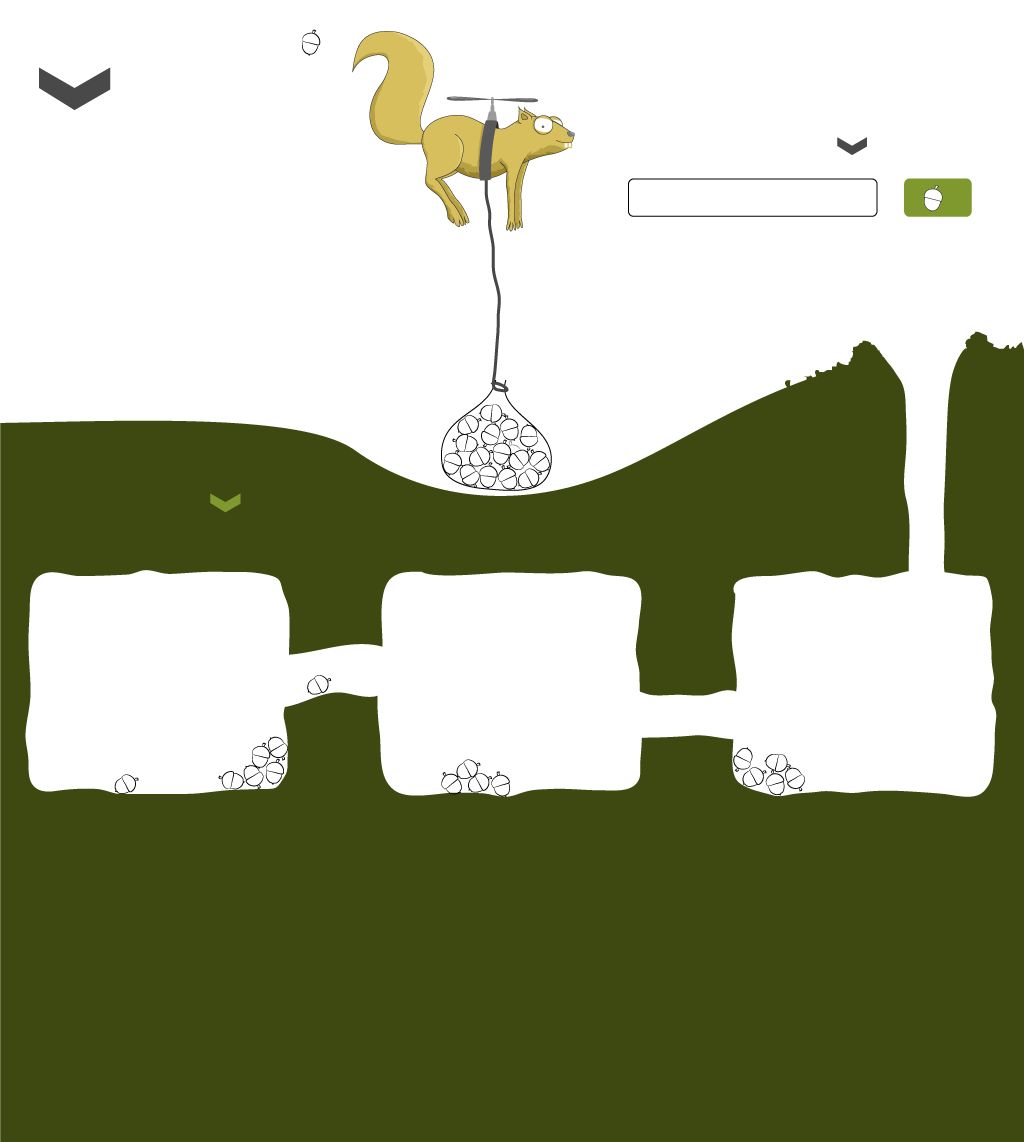
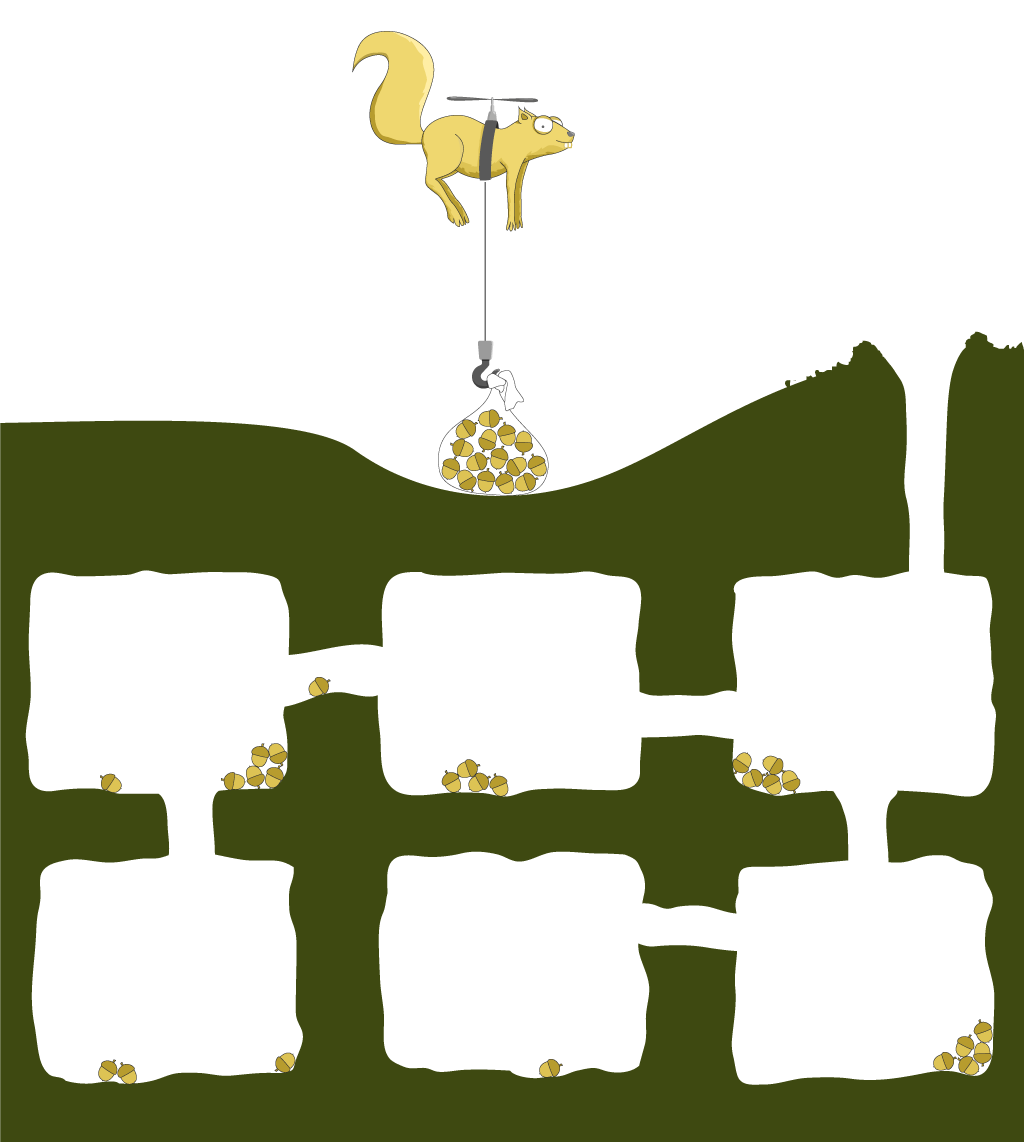
Front page styling

diff --git a/static/main.css b/static/main.css
@@ -25,11 +25,6 @@ html, body {
     padding: 0;
 }
 
-#home {
-    height: 100%;
-    margin: 0 50px 0 50px;
-}
-
 #wrapper {
     min-height: 100%;
     height: auto !important;
@@ -56,7 +51,65 @@ body.index #home {
 }
 
 body.index #header {
-    position: fixed;
+    display: none;
+}
+
+/* 
+ darker: rgb(166, 178, 177)
+ */
+
+body.index #home {
+    /*background: -webkit-gradient(linear, left bottom, left top, color-stop(0, rgb(166, 178, 177)), color-stop(1, rgb(220, 239, 238)));
+*/
+}
+
+body.index #page_background {
+    position: absolute;
+    top: 0;
+    bottom: 0;
+    right: 0;
+    left: 0;
+    z-index: -1;
+}
+
+body.index #page_background table {
+    border-spacing: 0;
+    width: 100%;
+    height: 100%;
+}
+
+body.index #page_background td {
+    width: 50%;
+    margin: 0;
+    padding: 0;
+}
+
+body.index #page_background .left_top {
+    background: rgb(220, 238, 238);
+    height: 423px;
+}
+
+body.index #page_background .left_bottom {
+    background: #3e4911;
+    height: 734px;
+}
+
+body.index #page_background .right_top {
+    background: rgb(220, 238, 238);
+    height: 348px;
+}
+
+body.index #page_background .right_bottom {
+    background: #3e4911;
+    height: 810px;
+}
+
+body.index #index_background {
+    position: relative;
+    margin-left: auto;
+    margin-right: auto;
+    width: 1024px;
+    background: rgb(220, 238, 238);
 }
 
 body.index #index_content {
@@ -67,11 +120,34 @@ body.index #index_content {
     background-image: url('/static/img/index-background.png');
 }
 
+body.index #index_wrapper {
+    padding: 15px 29px;
+}
+
+body.index #index_header {
+    font-size: 46px;
+    font-family: 'Alfa Slab One';
+    color: rgb(171, 217, 74);
+    letter-spacing: 1px;
+}
+
+body.index #index_header > img {
+    margin-left: 8px;
+}
+
+body.index #index_actions > img {
+    margin-top: 10px;
+    margin-bottom: 10px;
+}
+
+body.index #index_actions {
+    font-family: 'Raleway';
+    font-weight: lighter;
+    font-size: 24px;
+}
+
 body.index #marketing_text {
-    position: absolute;
-    top: 120px;
-    left: 35px;
-    font-size: 1.3em;
+    float: left;
 }
 
 body.index #marketing_text ul {
@@ -85,22 +161,25 @@ body.index #marketing_text li {
 }
 
 body.index #create_form {
-    position: absolute;
-    left: 600px;
-    top: 105px;
-    font-size: 1.6em;    
-}
-
-body.index #create_form div {
-    margin: 20px; 
+    float: right;
 }
 
 body.index #create_form input[name="group_name"] {
     font-size: 1em;
+    width: 300px;
 }
 
 body.index #create_form button[name="go"] {
     font-size: 1em;
+}
+
+body.index #popular_bundles_label {
+    position: absolute;
+    top: 500px;
+    left: 29px;
+    font-family: "Raleway";
+    font-size: 24px;
+    color: rgb(220, 238, 238);
 }
 
 body.index #popular_bundles {
@@ -111,8 +190,9 @@ body.index #popular_bundles {
 body.index .pop_bundle {
     position: absolute;
     width: 220px;
-    height: 200px;
+    height: 190px;
     cursor: pointer;
+    overflow: hidden;
 }
 
 body.index #pop1 {
@@ -128,20 +208,34 @@ body.index #pop3 {
 }
 
 body.index .group_name {
-    font-weight: bold;
-}
-
-body.index .title {
-    text-decoration: underline;
-    color:  #0000FF;
+    color: rgb(171, 217, 74);
+    font-family: Palatino;
+    font-size: 16px;
+    border-bottom: 1px solid #444;
+    padding-bottom: 3px;
 }
 
 body.index #popular_bundles .item {
+    color: #444;
+    padding: 3px 0;
     white-space: nowrap;
     overflow: hidden;
     text-overflow: ellipsis;
     display: block;
     width: 100%;
+}
+
+body.index .items {
+    margin-top: 5px;
+}
+
+body.index .title {
+    font-weight: bold;
+    font-size: 15px;
+}
+
+body.index .comment {
+    font-size: 13px;
 }
 
 /* tpl_groupedit */

diff --git a/templates/index.html b/templates/index.html
@@ -2,28 +2,59 @@
 
 {% block content %}
 <div id="content">
+    <div id="page_background">
+        <table>
+            <tr>
+                <td>
+                    <div class="left_top"></div>
+                    <div class="left_bottom"></div>
+                </td>
+                <td>
+                    <div class="right_top"></div>
+                    <div class="right_bottom"></div>
+                </td>
+            </tr>
+        </table>
+    </div>
+    <div id="index_background">
     <div id="index_content">
-        <div id="marketing_text">
-            <ul>
-                <li>Create bundles of links.</li>
-                <li>Share.</li>
-                <li>That's it!</li>
-            </ul>
-        </div> 
-        <div id="create_form">
-            <div>
-                Create Bundle
+        <div id="index_wrapper">
+            <div id="index_header">
+                Bundlenut<img src="/static/img/nut-for-logo.png" />
             </div>
-            <div>
-                <input id="create_group_name" name="group_name" type="text" />
-                <button name="go"> Go </button>
+            <div id="index_actions">
+                <img src="/static/img/large-arrow.png" />
+                <div>
+                    <div id="marketing_text">
+                        <ul>
+                            <li>Create bundles of links.</li>
+                            <li>Share.</li>
+                            <li>That's it!</li>
+                        </ul>
+                    </div> 
+                    <div id="create_form">
+                        <div id="index_create_label">
+                            Create a Bundle
+                            <img src="/static/img/small-arrow-gray.png" />
+                        </div>
+                        <div>
+                            <input id="create_group_name" name="group_name" type="text" />
+                            <button name="go"> Go </button>
+                        </div>
+                    </div>
+                </div>
             </div>
+        </div>
+        <div id="popular_bundles_label">
+            Popular Bundles
+            <img src="/static/img/small-arrow-green.png" />
         </div>
         <div id="popular_bundles">
             <div id="pop1" class="pop_bundle"></div>
             <div id="pop2" class="pop_bundle"></div>
             <div id="pop3" class="pop_bundle"></div>
         </div>
+    </div>
     </div>
 </div>
 {% endblock %}

diff --git a/static/main.js b/static/main.js
@@ -635,8 +635,11 @@
         this.$('#groupview_content').css('top', -this._paneHeight());
         this.$('#groupview_content').animate({
           top: 0
-        }, function() {
-          return _this.$('.pane_middle').jScrollPane();
+        }, {
+          duration: 200,
+          complete: function() {
+            return _this.$('.pane_middle').jScrollPane();
+          }
         });
       } else if (this.state === 'full') {
         this.$('.wrapper').slideUp({
@@ -652,14 +655,14 @@
       var el;
       var _this = this;
       el = this.$('#groupview_content');
-      el.animate({
+      return el.animate({
         top: -this._paneHeight() + 'px'
       }, {
         complete: function() {
-          return el.css('top', '-100%');
+          el.css('top', '-100%');
+          return _this.setState('closed');
         }
       });
-      return this.setState('closed');
     };
 
     GroupView.prototype.full = function() {
@@ -682,7 +685,8 @@
           top: 0
         }, onComplete);
       } else {
-        $('.wrapper').slideDown(400, onComplete);
+        $('.wrapper').slideDown();
+        $('.wrapper').promise().done(onComplete);
       }
       return this.setState('full');
     };

diff --git a/templates/base.html b/templates/base.html
@@ -5,6 +5,7 @@
 <html>
     <head>
         <meta http-equiv="content-type" content="text/php; charset=utf-8" />
+        <link href='http://fonts.googleapis.com/css?family=Alfa+Slab+One|Raleway:100' rel='stylesheet' type='text/css'>
         <link rel="stylesheet" type="text/css" href="/static/css-lib/ui-lightness/jquery-ui-1.8.16.custom.css" />
         <link rel="stylesheet" type="text/css" href="/static/css-lib/jquery.jscrollpane.css" />
         <link rel="stylesheet" type="text/css" href="/static/main.css" />

diff --git a/lassoem.py b/lassoem.py
@@ -13,7 +13,7 @@ from google.appengine.ext.webapp import template
 
 import models
 
-DEBUG = True
+DEBUG = False
 
 
 def get_file(rel_path):
